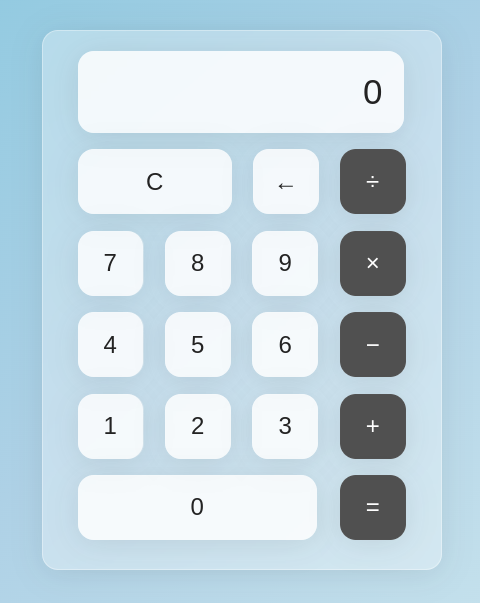
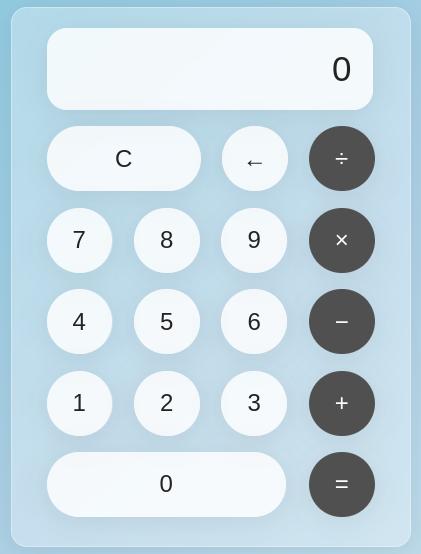
finalização da calc cientifica

diff --git a/assets/css/cientifica.css b/assets/css/cientifica.css
@@ -1,0 +1,198 @@
+html {
+    box-sizing: border-box;
+    height: 100%;
+}
+
+*,
+*::before,
+*::after {
+    box-sizing: inherit;
+    margin: 0;
+    padding: 0;
+}
+
+body {
+    background: linear-gradient(320deg, #CFE8EF, #AED1E6, #85C7DE);
+    font-family: 'Dosis', sans-serif;
+}
+
+menu {
+    text-align: center;
+    margin: 1em;
+}
+
+menu a {
+    font-size: 18px;
+    color: #000000;
+    text-transform: uppercase;
+    text-decoration: none;
+    border: 2px solid #505050;
+    border-radius: 100px;
+    padding: 0.3em;
+    padding-right: 1.2em;
+    padding-left: 1.2em;
+
+    transition: 0.7s;
+}
+
+menu a:hover {
+    color: #AED1E6;
+    background: #505050;
+}
+
+#container {
+    align-items: center;
+    height: inherit;
+    justify-content: center;
+    display: flex;
+}
+
+.wrapper {
+    backdrop-filter: blur(5.5px);
+    -webkit-backdrop-filter: blur(5.5px);
+    border-radius: 16px;
+    box-shadow: 0 4px 30px rgba(35, 35, 35, 0.1);
+    color: #232323;
+    backdrop-filter: blur(4px);
+    -webkit-backdrop-filter: blur(4px);
+    background: rgba(255, 255, 255, 0.30);
+    border: 1px solid rgba(255, 255, 255, 0.34);
+    width: 570px;
+    height: 600px;
+    padding: 20px 35px;
+}
+
+.screen {
+    backdrop-filter: blur(5.5px);
+    -webkit-backdrop-filter: blur(5.5px);
+    background: rgba(255, 255, 255, 0.75);
+    border: 1px solid rgba(255, 255, 255, 0.01);
+    border-radius: 20px;
+    box-shadow: 0 4px 30px rgba(35, 35, 35, 0.1);
+    color: #232323;
+    font-size: 35px;
+    overflow: auto;
+    padding: 20px;
+    text-align: right;
+    width: 100%;
+}
+
+.calc-button-row {
+    display: flex;
+    justify-content: space-between;
+    margin: 5% 0;
+}
+
+.calc-button {
+    cursor: pointer;
+    backdrop-filter: blur(5.5px);
+    -webkit-backdrop-filter: blur(5.5px);
+    background: rgba(255, 255, 255, 0.75);
+    border: 1px solid rgba(255, 255, 255, 0.01);
+    border-radius: 40px;
+    box-shadow: 0 4px 30px rgba(35, 35, 35, 0.1);
+    color: #232323;
+    flex-basis: 20%;
+    font-family: inherit;
+    font-size: 24px;
+    height: 65px;
+    margin: 0.1em;
+}
+
+.calc-button:last-child {
+    backdrop-filter: blur(5.5px);
+    -webkit-backdrop-filter: blur(5.5px);
+    background: rgba(255, 255, 255, 0.75);
+    border: 1px solid rgba(255, 255, 255, 0.01);
+    border-radius: 40px;
+    box-shadow: 0 4px 30px rgba(35, 35, 35, 0.1);
+    color: #ffffff;
+    background: #505050;
+}
+
+#c {
+    cursor: pointer;
+    backdrop-filter: blur(5.5px);
+    -webkit-backdrop-filter: blur(5.5px);
+    background: #505050;
+    border: 1px solid rgba(255, 255, 255, 0.01);
+    border-radius: 40px;
+    box-shadow: 0 4px 30px rgba(35, 35, 35, 0.1);
+    color: #ffffff;
+    flex-basis: 20%;
+    font-family: inherit;
+    font-size: 24px;
+    height: 65px;
+    margin: 0.1em;
+}
+
+#c:hover {
+    background-color: inherit;
+    color: inherit;
+}
+
+.especial {
+    cursor: pointer;
+    backdrop-filter: blur(5.5px);
+    -webkit-backdrop-filter: blur(5.5px);
+    background: #505050;
+    border: 1px solid rgba(255, 255, 255, 0.01);
+    border-radius: 40px;
+    box-shadow: 0 4px 30px rgba(35, 35, 35, 0.1);
+    color: #ffffff;
+    flex-basis: 20%;
+    font-family: inherit;
+    font-size: 24px;
+    height: 65px;
+    margin: 0.1em;
+}
+
+.calc-button:last-child:hover {
+    background-color: inherit;
+    color: inherit;
+}
+
+.calc-button:hover {
+    background-color: inherit;
+}
+
+.calc-button:active {
+    background-color: #98989898;
+}
+
+#eval,
+#ce {
+    cursor: pointer;
+    backdrop-filter: blur(5.5px);
+    -webkit-backdrop-filter: blur(5.5px);
+    background: rgba(255, 255, 255, 0.75);
+    border: 1px solid rgba(255, 255, 255, 0.01);
+    border-radius: 40px;
+    box-shadow: 0 4px 30px rgba(35, 35, 35, 0.1);
+    color: #232323;
+    flex-basis: 20%;
+    font-family: inherit;
+    font-size: 24px;
+    height: 65px;
+    margin: 0.1em;
+}
+
+#eval:hover {
+    background-color: inherit;
+}
+
+#ce:hover {
+    background-color: inherit;
+}
+
+footer {
+    font-size: 14px;
+    bottom: 0;
+    position: fixed;
+    text-align: center;
+}
+
+footer a {
+    text-decoration: none;
+    color: #000000;
+}

diff --git a/cientifica.html b/cientifica.html
@@ -1,0 +1,81 @@
+<!DOCTYPE html>
+<html lang="en">
+
+<head>
+    <meta charset="UTF-8">
+    <meta http-equiv="X-UA-Compatible" content="IE=edge">
+    <meta name="viewport" content="width=device-width, initial-scale=1.0">
+    <link rel="stylesheet" href="./assets/css/cientifica.css">
+    <title>Calculadora científica</title>
+</head>
+
+<body>
+    <menu>
+        <a href="./index.html">Voltar</a>
+    </menu>
+
+    <div id="container">
+        <div class="wrapper">
+            <input class="screen" type="text" placeholder="0">
+
+            <div class="calc-buttons">
+                <div class="calc-button-row">
+                    <button class="calc-button">%</button>
+                    <button class="calc-button" onclick="fact()">x!</button>
+                    <button class="calc-button">(</button>
+                    <button class="calc-button">)</button>
+                    <button id="ce" onclick="backspc()">&larr;</button>
+                    <button id="c" onclick="screen.value=''">C</button>
+                </div>
+
+                <div class="calc-button-row">
+                    <button class="especial" onclick="sin()">sin</button>
+                    <button class="especial" onclick="pi()">π</button>
+                    <button class="calc-button">7</button>
+                    <button class="calc-button">8</button>
+                    <button class="calc-button">9</button>
+                    <button class="calc-button">÷</button>
+                </div>
+
+                <div class="calc-button-row">
+                    <button class="especial" onclick="cos()">cos</button>
+                    <button class="especial" onclick="log()">log</button>
+                    <button class="calc-button">4</button>
+                    <button class="calc-button">5</button>
+                    <button class="calc-button">6</button>
+                    <button class="calc-button">×</button>
+                </div>
+
+                <div class="calc-button-row">
+                    <button class="especial" onclick="tan()">tan</button>
+                    <button class="especial" onclick="sqrt()">√</button>
+                    <button class="calc-button">1</button>
+                    <button class="calc-button">2</button>
+                    <button class="calc-button">3</button>
+                    <button class="calc-button">-</button>
+                </div>
+
+                <div class="calc-button-row">
+                    <button class="especial" onclick="e()">e</button>
+                    <button class="especial" onclick="pow()">x <span
+                            style="position: relative; bottom: .4em; right: .1em;">y</span>
+                    </button>
+                    <button class="calc-button">0</button>
+                    <button class="calc-button">.</button>
+                    <button id="eval" onclick="screen.value=eval(screen.value)">=</button>
+                    <button class="calc-button">+</button>
+                </div>
+            </div>
+        </div>
+        <footer>
+            <p>&copy; Feito por <a href="https://www.instagram.com/gabriel_bianchi_/" target="_blank">Gabriel Britto</a>
+            </p>
+        </footer>
+    </div>
+
+
+
+    <script src="./assets/js/cientifica.js"></script>
+</body>
+
+</html>

diff --git a/assets/js/cientifica.js b/assets/js/cientifica.js
@@ -1,0 +1,66 @@
+var screen = document.querySelector('.screen');
+var btn = document.querySelectorAll('.calc-button');
+
+for (item of btn) {
+    item.addEventListener('click', (e) => {
+        btntext = e.target.innerText;
+
+        if (btntext == '×') {
+            btntext = '*';
+        }
+
+        if (btntext == '÷') {
+            btntext = '/';
+        }
+        screen.value += btntext;
+    });
+}
+
+function sin() {
+    screen.value = Math.sin(screen.value);
+}
+
+function cos() {
+    screen.value = Math.cos(screen.value);
+}
+
+function tan() {
+    screen.value = Math.tan(screen.value);
+}
+
+function pow() {
+    screen.value = Math.pow(screen.value, 2);
+}
+
+function sqrt() {
+    screen.value = Math.sqrt(screen.value, 2);
+}
+
+function log() {
+    screen.value = Math.log(screen.value);
+}
+
+function pi() {
+    screen.value = 3.14159265359;
+}
+
+function e() {
+    screen.value = 2.71828182846;
+}
+
+function fact() {
+    var i, num, f;
+    f = 1
+    num = screen.value;
+    for (i = 1; i <= num; i++) {
+        f = f * i;
+    }
+
+    i = i - 1;
+
+    screen.value = f;
+}
+
+function backspc() {
+    screen.value = screen.value.substr(0, screen.value.length - 1);
+}

diff --git a/index.html b/index.html
@@ -25,8 +25,8 @@
 
         <div class="content-R">
             <h2>CALCULADORA CIENTÍFICA</h1>
-                <a href="#">
-                    <img src="./assets/img/calculadora normal.png" alt="">
+                <a href="./cientifica.html">
+                    <img src="./assets/img/calculadora cientifica.png" alt="">
                 </a>
         </div>
     </div>

diff --git a/normal.html b/normal.html
@@ -6,7 +6,7 @@
     <meta http-equiv="X-UA-Compatible" content="IE=edge">
     <meta name="viewport" content="width=device-width, initial-scale=1.0">
     <link rel="stylesheet" href="./assets/css/normal.css">
-    <title>Calculadora</title>
+    <title>Calculadora normal</title>
 </head>
 
 <body>

diff --git a/assets/js/normal.js b/assets/js/normal.js
@@ -2,7 +2,7 @@ let runningTotal = 0;
 let buffer = "0";
 let previousOperator;
 
-const screen = document.querySelector('.screen');
+var screen = document.querySelector('.screen');
 
 function buttonClick(value) {
     if (isNaN(value)) {
